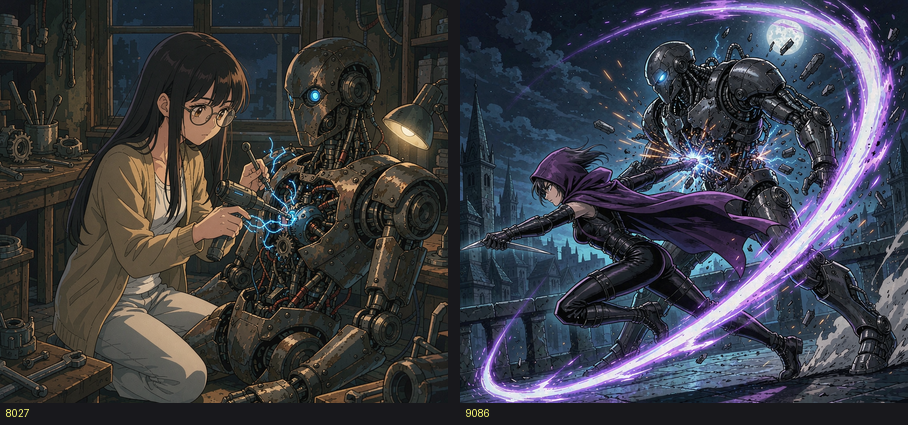
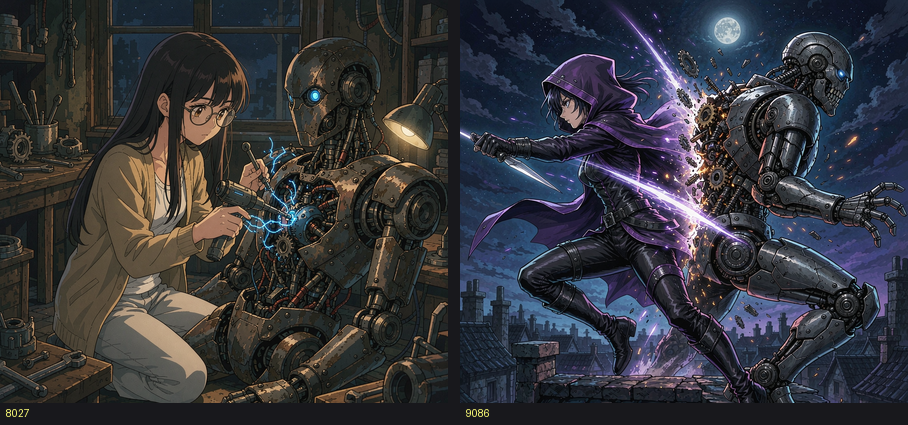
R251 重画 9086 终结卡图：修正「双方背对背」构图
· 原图不合格：机器人正面朝镜头，刺客只是背贴着它的胸口，两人朝向没有相反，
  读不出「背对背」。
· 新图：刺客朝左（匕首前伸刺出）、机器人朝右，肩胛骨在画面正中相贴、脊柱平行、
  朝向相反；机器人主要露背部与后脑，只从肩上露出一点蓝色眼；
  紫白刀光从匕首处一路斜贯穿过机器人。
· 提示词教训（已写进批次 README）：只写 back to back 模型会画成「背贴胸」，
  必须写 shoulder blades touching at the exact center / spines pressed together /
  one faces LEFT the other faces RIGHT / the automaton seen mostly FROM BEHIND /
  neither figure faces the viewer。
· 三张候选都留在 art_src/2026-10-19_卡图批次B/raw/，要回退改映射文件名即可。
· 玩法说明加 R251 段；回归四套全绿（engine 2875 / reward 26 / bgm 31 / smoke 36）。

diff --git a/art_src/2026-10-19_卡图批次B/README.md b/art_src/2026-10-19_卡图批次B/README.md
@@ -43,11 +43,20 @@ no watermark, no frame, no border, trading card illustration, square composition
 ## 出图记录
 
 - 8027：1 张过。
-- 9086：**2 张候选**。
+- 9086：**3 张候选**。
   - 候选 0（`An_anime_female_assassin_…`）：刺客大头回头、机器人背后被贯穿。小图辨识度高，
-    但姿态是「站定回眸」，不是**前刺冲刺**，与要求不符 → 弃用。
-  - 候选 1（`Side_view_action_shot_…`）：侧视冲刺、匕首前伸、背对背、环形刀光贯穿 → **采用**。
-  - 两张候选都留在 `raw/`，以后要换直接改处理映射即可。
+    但姿态是「站定回眸」，不是**前刺冲刺** → 弃用。
+  - 候选 1（`Side_view_action_shot_…`）：侧视冲刺、匕首前伸 → 动作对，**但构图不合格**：
+    机器人是**正面朝镜头**，刺客只是背贴着它的胸口，两人朝向没有相反，读不出「背对背」。
+    **用户否掉的就是这张。**
+  - 候选 2（`STRICT_BACK_TO_BACK_pose__clas_…`，**采用**）：刺客朝左、机器人朝右，
+    肩胛骨在画面正中相贴，脊柱平行、朝向相反；机器人主要露**背部与后脑**，
+    只从肩上露出一点蓝色眼；紫白刀光从匕首处斜贯穿过机器人 → 背对背一眼可读。
+- **教训（写提示词的硬规矩）**：只写 `back to back` 模型会画成「背贴胸」。
+  必须把几何写成可执行的话：`shoulder blades touching at the exact center`、
+  `spines pressed together`、`one faces LEFT, the other faces RIGHT`、
+  `the automaton seen mostly FROM BEHIND`、`neither figure faces the viewer`。
+- 三张原始图都留在 `raw/`，要回退改处理映射里的文件名即可。
 
 ## 处理流程（同批次 A）
 
